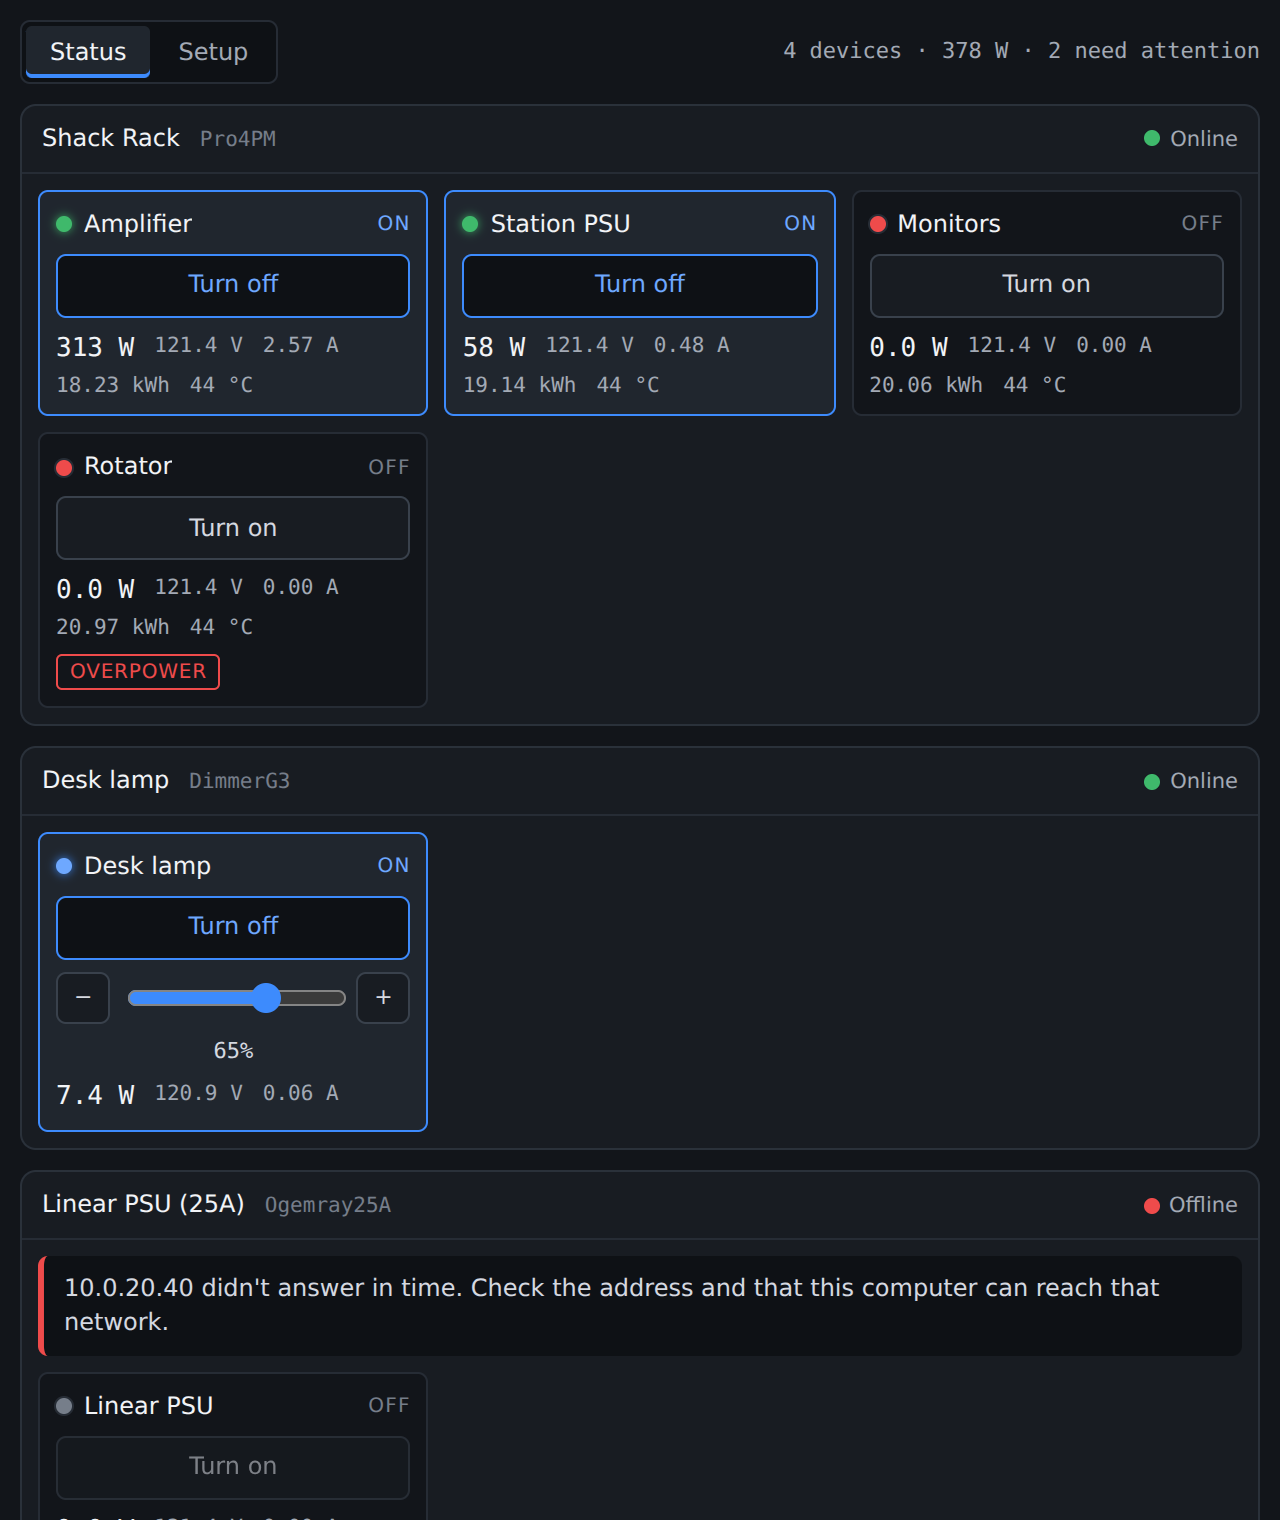
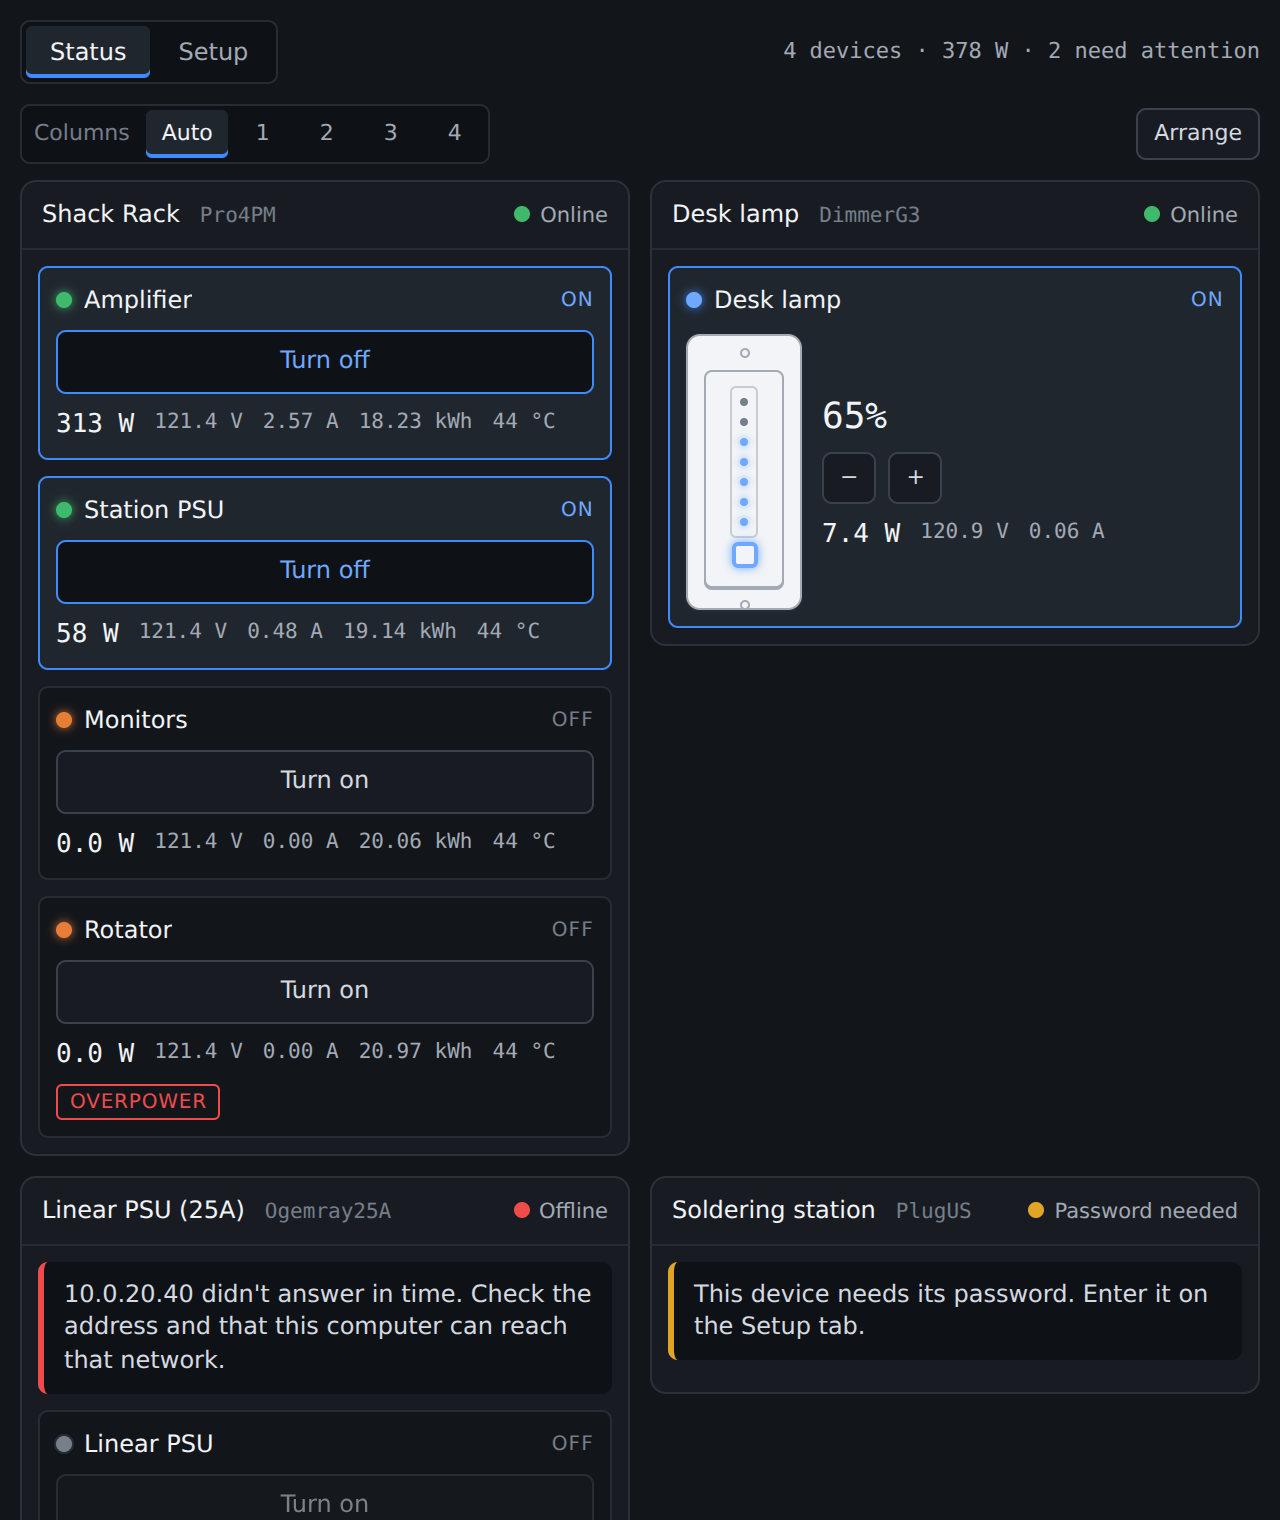
PowerStation 0.4.0: saved column grid, wall-dimmer drawing, orange off lamp
- Layout saved in PowerStation settings (layout.v1) and returned with
  /status; PUT /layout validates 0-4 columns, no duplicates, and drops
  devices that no longer exist; removed devices leave the layout
- Status tab: Columns (Auto, 1-4), Arrange mode with drag and drop and
  arrow buttons; fewer columns when the panel is too narrow
- Dimmers drawn like the operator's wall dimmer (7 level dots, square
  on/off, -/+ in 10% steps); off lamp is orange from theme tokens
- 3 new layout tests (50 total); docs and screenshots updated

Claude-Session: https://claude.ai/code/session_01GwXidKJtD8C8vmxSb5Wh9H

diff --git a/ui/preview/preview.tsx b/ui/preview/preview.tsx
@@ -57,7 +57,7 @@ const api: ZeusPluginApi = {
     await new Promise((r) => setTimeout(r, 150));
     if (scenario === "error") throw new TypeError("Failed to fetch");
     if (method === "GET" && path === "/status") {
-      const status: StatusResponse = { version: "0.3.0", pollIntervalMs: 2000, devices, scenes: [] };
+      const status: StatusResponse = { version: "0.4.0", pollIntervalMs: 2000, devices, scenes: [] };
       return json(status);
     }
     const m = path.match(/^\/devices\/([^/]+)\/channels\/(switch|light)\/(\d+)$/);

diff --git a/tests/PowerStation.Tests/LayoutTests.cs b/tests/PowerStation.Tests/LayoutTests.cs
@@ -1,0 +1,83 @@
+// SPDX-License-Identifier: GPL-2.0-or-later
+using System.Net;
+using System.Text.Json.Nodes;
+
+namespace PowerStation.Tests;
+
+public static class LayoutTests
+{
+    private static async Task<(FakeShellyGen2 A, FakeShellyGen2 B, FakeShellyGen2 C)> ThreeDevices()
+    {
+        var a = await FakeShellyGen2.StartAsync("shelly1g4-00000000000a", f => f.Switches.Add(new FakeShellyGen2.FakeSwitch()));
+        var b = await FakeShellyGen2.StartAsync("shelly1g4-00000000000b", f => f.Switches.Add(new FakeShellyGen2.FakeSwitch()));
+        var c = await FakeShellyGen2.StartAsync("shellydimmerg3-00000000000c", f => f.Lights.Add(new FakeShellyGen2.FakeLight()));
+        return (a, b, c);
+    }
+
+    [Test]
+    public static async Task LayoutIsSavedAndSurvivesRestart()
+    {
+        var (a, b, c) = await ThreeDevices();
+        await using var _a = a; await using var _b = b; await using var _c = c;
+        var context = new FakePluginContext();
+        await using (var host = await PluginHost.StartAsync(context))
+        {
+            foreach (var d in new[] { a, b, c }) await host.SendAsync(HttpMethod.Post, "devices", new { host = d.Host });
+            var (_, before) = await host.SendAsync(HttpMethod.Get, "status");
+            Assert.Equal(null, before!["layout"], "no layout until the operator arranges");
+
+            var (saved, layout) = await host.SendAsync(HttpMethod.Put, "layout", new
+            {
+                columns = 2,
+                order = new[] { new[] { c.DeviceId, a.DeviceId }, new[] { b.DeviceId } },
+            });
+            Assert.Equal(HttpStatusCode.OK, saved, $"save: {layout?.ToJsonString()}");
+            Assert.Equal(2, layout!["columns"]!.GetValue<int>(), "columns");
+        }
+
+        await using (var host = await PluginHost.StartAsync(context))
+        {
+            var (_, status) = await host.SendAsync(HttpMethod.Get, "status");
+            var layout = status!["layout"]!;
+            Assert.Equal(2, layout["columns"]!.GetValue<int>(), "columns after restart");
+            Assert.Equal(c.DeviceId, layout["order"]![0]![0]!.GetValue<string>(), "first card after restart");
+            Assert.Equal(b.DeviceId, layout["order"]![1]![0]!.GetValue<string>(), "second column after restart");
+        }
+    }
+
+    [Test]
+    public static async Task RemovedDeviceDisappearsFromLayout()
+    {
+        var (a, b, c) = await ThreeDevices();
+        await using var _a = a; await using var _b = b; await using var _c = c;
+        await using var host = await PluginHost.StartAsync();
+        foreach (var d in new[] { a, b, c }) await host.SendAsync(HttpMethod.Post, "devices", new { host = d.Host });
+        await host.SendAsync(HttpMethod.Put, "layout", new { columns = 3, order = new[] { new[] { a.DeviceId }, new[] { b.DeviceId }, new[] { c.DeviceId } } });
+        await host.SendAsync(HttpMethod.Delete, $"devices/{b.DeviceId}");
+        var (_, status) = await host.SendAsync(HttpMethod.Get, "status");
+        var ids = status!["layout"]!["order"]!.AsArray().SelectMany(col => col!.AsArray()).Select(x => x!.GetValue<string>()).ToArray();
+        Assert.Equal(2, ids.Length, "removed device dropped");
+        Assert.False(ids.Contains(b.DeviceId), "b gone");
+    }
+
+    [Test]
+    public static async Task LayoutRequestsAreValidated()
+    {
+        var (a, b, c) = await ThreeDevices();
+        await using var _a = a; await using var _b = b; await using var _c = c;
+        await using var host = await PluginHost.StartAsync();
+        await host.SendAsync(HttpMethod.Post, "devices", new { host = a.Host });
+
+        async Task<HttpStatusCode> Put(object body) => (await host.SendAsync(HttpMethod.Put, "layout", body)).Status;
+        Assert.Equal(HttpStatusCode.BadRequest, await Put(new { columns = 5, order = Array.Empty<string[]>() }), "5 columns");
+        Assert.Equal(HttpStatusCode.BadRequest, await Put(new { columns = -1, order = Array.Empty<string[]>() }), "negative");
+        Assert.Equal(HttpStatusCode.BadRequest, await Put(new { columns = 1, order = new[] { new[] { a.DeviceId }, Array.Empty<string>() } }), "more columns than chosen");
+        Assert.Equal(HttpStatusCode.BadRequest, await Put(new { columns = 2, order = new[] { new[] { a.DeviceId }, new[] { a.DeviceId } } }), "duplicate");
+
+        var (ok, layout) = await host.SendAsync(HttpMethod.Put, "layout", new { columns = 0, order = new[] { new[] { "shelly-not-added", a.DeviceId } } });
+        Assert.Equal(HttpStatusCode.OK, ok, "auto with an unknown id");
+        var only = layout!["order"]![0]!.AsArray();
+        Assert.Equal(1, only.Count, "unknown id dropped");
+        Assert.Equal(a.DeviceId, only[0]!.GetValue<string>(), "known id kept");
+    }
+}

diff --git a/src/PowerStation/Services/DeviceManager.cs b/src/PowerStation/Services/DeviceManager.cs
@@ -84,6 +84,41 @@ public sealed class DeviceManager : IAsyncDisposable
 
     public bool Contains(string deviceId) => _entries.ContainsKey(deviceId);
 
+    private Layout? _layout;
+
+    /// <summary>The operator's Status-tab grid, without devices that no longer exist.</summary>
+    public Layout? Layout => _layout is null ? null : _layout with
+    {
+        Order = _layout.Order.Select(col => (IReadOnlyList<string>)col.Where(_entries.ContainsKey).ToArray()).ToArray(),
+    };
+
+    public async Task<Layout> SaveLayoutAsync(Layout request, CancellationToken ct)
+    {
+        if (request.Columns is < 0 or > 4)
+            throw new PowerStationRequestException(400, "Columns must be Auto or 1 to 4.");
+        var max = Math.Max(1, request.Columns);
+        var order = request.Order ?? [];
+        if (order.Count > max)
+            throw new PowerStationRequestException(400, $"The layout has {order.Count} columns but {max} were chosen.");
+        var seen = new HashSet<string>(StringComparer.Ordinal);
+        var clean = new List<IReadOnlyList<string>>();
+        foreach (var col in order)
+        {
+            var ids = new List<string>();
+            foreach (var id in col ?? [])
+            {
+                if (string.IsNullOrWhiteSpace(id) || id.Length > 128 || !seen.Add(id))
+                    throw new PowerStationRequestException(400, "Each device can appear only once in the layout.");
+                if (_entries.ContainsKey(id)) ids.Add(id); // quietly drop devices removed meanwhile
+            }
+            clean.Add(ids);
+        }
+        var layout = new Layout { Columns = request.Columns, Order = clean };
+        await _store.SaveLayoutAsync(layout, ct).ConfigureAwait(false);
+        _layout = layout;
+        return Layout!;
+    }
+
     /// <summary>Raised after each poll that couldn't reach a device: (device id, address, consecutive failures).</summary>
     public event Action<string, string, int>? DeviceUnreachable;
 
@@ -111,6 +146,7 @@ public sealed class DeviceManager : IAsyncDisposable
             }
             _entries[record.DeviceId] = new Entry(record, CreateClient(record));
         }
+        _layout = await _store.LoadLayoutAsync(ct).ConfigureAwait(false);
         Scenes = new SceneManager(_store, this);
         await Scenes.LoadAsync(ct).ConfigureAwait(false);
         _logger.LogInformation("PowerStation loaded {Count} device(s) and {Scenes} scene(s)",

diff --git a/src/PowerStation/Services/DeviceStore.cs b/src/PowerStation/Services/DeviceStore.cs
@@ -29,6 +29,15 @@ public interface IDeviceStore
     Task SaveScenesAsync(IReadOnlyList<Scene> scenes, CancellationToken ct);
     Task<DiscoverySettings> LoadDiscoverySettingsAsync(CancellationToken ct);
     Task SaveDiscoverySettingsAsync(DiscoverySettings settings, CancellationToken ct);
+    Task<Layout?> LoadLayoutAsync(CancellationToken ct);
+    Task SaveLayoutAsync(Layout layout, CancellationToken ct);
+}
+
+/// <summary>Status-tab grid: column count (0 = automatic) and device IDs per column, top to bottom.</summary>
+public sealed record Layout
+{
+    public int Columns { get; init; }
+    public IReadOnlyList<IReadOnlyList<string>> Order { get; init; } = [];
 }
 
 /// <summary>
@@ -41,6 +50,7 @@ public sealed class SettingsDeviceStore : IDeviceStore
     internal const string DevicesKey = "devices.v1";
     internal const string OptionsKey = "options.v1";
     internal const string ScenesKey = "scenes.v1";
+    internal const string LayoutKey = "layout.v1";
 
     private readonly IPluginSettings _settings;
 
@@ -76,6 +86,15 @@ public sealed class SettingsDeviceStore : IDeviceStore
 
     public Task SaveDiscoverySettingsAsync(DiscoverySettings settings, CancellationToken ct) =>
         _settings.SetAsync(DiscoveryService.SettingsKey, JsonSerializer.Serialize(settings, Json.Options), ct);
+
+    public async Task<Layout?> LoadLayoutAsync(CancellationToken ct)
+    {
+        var json = await _settings.GetAsync<string>(LayoutKey, ct).ConfigureAwait(false);
+        return string.IsNullOrWhiteSpace(json) ? null : JsonSerializer.Deserialize<Layout>(json, Json.Options);
+    }
+
+    public Task SaveLayoutAsync(Layout layout, CancellationToken ct) =>
+        _settings.SetAsync(LayoutKey, JsonSerializer.Serialize(layout, Json.Options), ct);
 
     public async Task<PowerStationOptions> LoadOptionsAsync(CancellationToken ct)
     {

diff --git a/src/PowerStation/Api/PowerStationEndpoints.cs b/src/PowerStation/Api/PowerStationEndpoints.cs
@@ -43,7 +43,14 @@ internal static class PowerStationEndpoints
                 pollIntervalMs = m.Options.PollIntervalMs,
                 devices = m.List(),
                 scenes = m.Scenes.List(),
+                layout = m.Layout,
             }))));
+
+        endpoints.MapPut("layout", (Handler)((HttpContext http) => Run(http, manager, async (m, ct) =>
+        {
+            var body = await ReadAsync<Layout>(http, ct).ConfigureAwait(false);
+            return await m.SaveLayoutAsync(body, ct).ConfigureAwait(false);
+        })));
 
         endpoints.MapPost("scenes", (Handler)((HttpContext http) => Run(http, manager, async (m, ct) =>
         {

diff --git a/src/PowerStation/README.md b/src/PowerStation/README.md
@@ -3,12 +3,17 @@
 Control and monitor the Shelly relays, plugs and dimmers in your shack from
 inside Zeus. By KQ4WLR.
 
-## What it does (version 0.3)
+## What it does (version 0.4)
 
 - **Turn outputs on and off** on Shelly Gen2, Gen3, Gen4 and "Powered by
   Shelly" devices (Plus / Pro relays, Pro 3, Pro 4PM, Plug US, Dimmer Gen3,
   Ogemray 25A and similar).
-- **Dim lights** with a slider or −/+ buttons.
+- **Dim lights** on a drawing of the wall dimmer: click one of its seven
+  level dots to jump to that level, the square to switch on and off, or
+  − and + for 10% steps.
+- **Your own grid**: choose Auto or 1 to 4 columns on the Status tab, then
+  **Arrange** to drag devices where you want them (or use the arrow
+  buttons). The layout is saved and survives Zeus restarts.
 - **Live readings** for metering devices: watts, volts, amps, energy (kWh)
   and device temperature, plus a running total for the whole station.
 - **Warnings** the device raises, such as overpower or overheating.
@@ -20,8 +25,8 @@ inside Zeus. By KQ4WLR.
   their address. If a device stops answering, PowerStation looks for it on
   its old network and your saved networks and moves it to its new address
   automatically. You don't need DHCP reservations.
-- **Status lamps** on every output: green on, red off, blue for a dimmer on
-  below 100%, grey when the device isn't answering.
+- **Status lamps** on every output: green on, orange off, blue for a dimmer
+  on below 100%, grey when the device isn't answering.
 - **Scenes**: a named set of outputs and dimmer levels applied in one click,
   with an optional fade for dimmers. Every scene also has **All off**, so a
   scene doubles as an on/off group. If one device is offline, the rest of

diff --git a/README.md b/README.md
@@ -15,6 +15,7 @@ and ships inside the package.
 | 1.5 | Scenes and groups (outputs + dimmer levels + fade, All off), lighter typography | **Done** (0.2.0) |
 | 1.6 | One panel with Status and Setup tabs (first hardware test: Shelly 1 Gen4) | **Done** (0.2.1) |
 | 2a | Built-in mDNS, network scan for VLANs, automatic re-find after DHCP changes, output status lamps | **Done** (0.3.0) |
+| 2a+ | Column grid with drag-to-arrange (saved), wall-dimmer drawing, orange off lamp | **Done** (0.4.0) |
 | 2b | Gen1 client (Plug, 1/1PM, 2.5, Dimmer 1/2) | Next |
 | 3 | Automations: Zeus start/stop, MOX, band, mode, frequency, idle with warning pill, restore-on-return, TX deferral, device-side dead-man timers | Planned |
 | 4 | Polish, in-Zeus screenshots, catalog submission | Planned |
